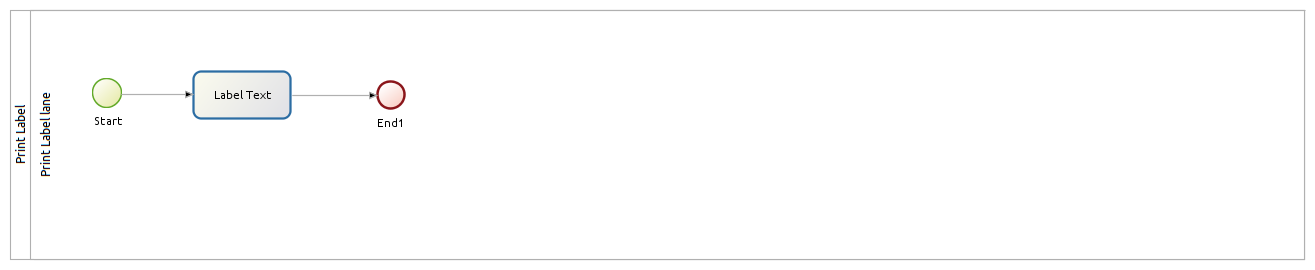
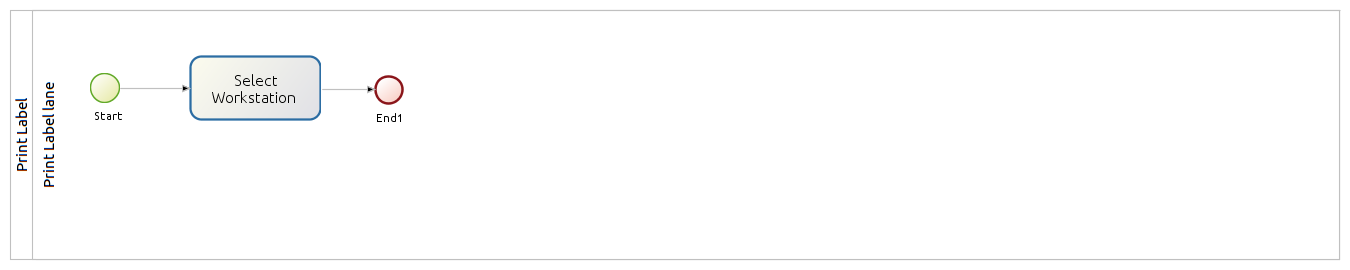
Changed label for print label to select location

Changed region(s): [[0.0, 0.1778, 0.3118, 0.6815]]

diff --git a/client-src/src/App.js b/client-src/src/App.js
@@ -2101,7 +2101,7 @@ class App extends Component {
 
       }
 
-      const label = this.props.wf.responses[this.state.currentWorkflow]["Label Text"];
+      const label = this.props.wf.responses[this.state.currentWorkflow]["Select Workstation"];
 
       const data = "\nN\nq801\nQ329,026\nZT\nA50,50,0,2,2,2,N,\"" + label + "\"\nB10,100,0,1,5,15,120,N,\"" + label + "\"\nP1\n";
 
@@ -3321,7 +3321,7 @@ class App extends Component {
         formActive: true,
         currentSection: "user management",
         configs: {
-          "Label Text": {
+          "Select Workstation": {
             fieldType: "text",
             ajaxURL: "/list_locations?name=",
             lockList: true
